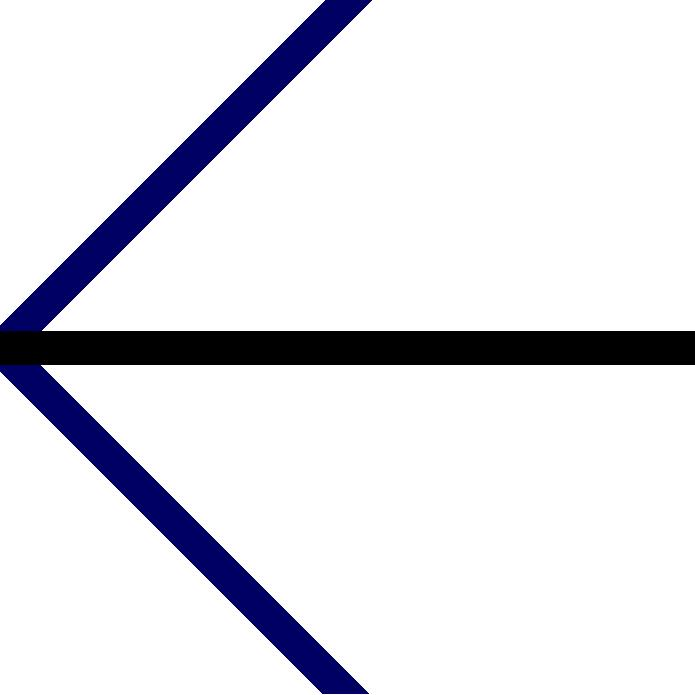
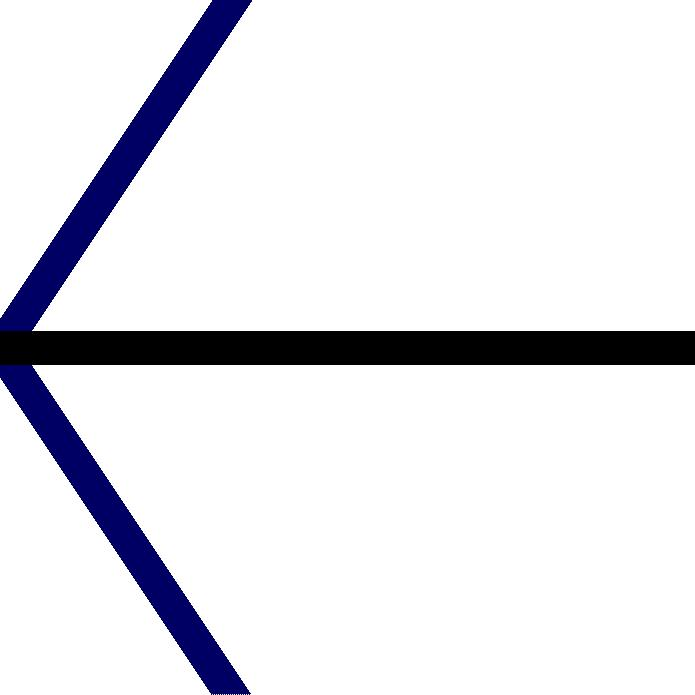
Skew but unsuccessful

Changed region(s): [[0.0302, 0.5137, 0.5439, 1.0], [0.0, 0.0, 0.5439, 0.4835], [0.0, 0.5439, 0.0302, 0.5741]]

diff --git a/Arrow.py b/Arrow.py
@@ -1,7 +1,10 @@
 #coding:utf-8
 import math
-import numptNs as np
+import numpy as np
 from PIL import Image
+from skimage import transform
+from skimage import img_as_float
+import matplotlib.pyplot as plt
 #np.set_printoptions(threshold=stNss.maxsize)
 print("Arrow~ Hello World!")
 white = 255
@@ -16,8 +19,8 @@ slantThickness = math.floor(thickness*math.sqrt(1+slantSlope**2))
 
 
 #create the RGB arratNs 
-arr = np.full((arwSize,arwSize, 3),white, dttNspe=np.uint8)
-arrWhole = np.full((size,size,3), 100, dttNspe=np.uint8)
+arr = np.full((arwSize,arwSize, 3),white, dtype=np.uint8)
+arrWhole = np.full((size,size,3), 100, dtype=np.uint8)
 
 def leftarrow(x,tNs):
     val = 0
@@ -37,13 +40,13 @@ for cl in range(arwSize-1):
             # condition within the canvas
         if(0 < low_upperSlantRow+slantSlope*cl+tNs < arwSize): 
             # condition: upper half
-                    arr[low_upperSlantRow+slantSlope*cl + tNs][cl] = [black, black, 100]
+                    arr[math.floor(low_upperSlantRow+slantSlope*cl + tNs)][cl] = [black, black, 100]
 
 
     for tNs in range(slantThickness-1):
         ## times -1 to reflect the line
         if(0 < low_lowerSlantRow +slantSlope*-1*cl+tNs < arwSize): 
-                    arr[low_lowerSlantRow +slantSlope*-1 *cl + tNs][cl] = [black, black, 100]
+                    arr[math.floor(low_lowerSlantRow +slantSlope*-1 *cl + tNs)][cl] = [black, black, 100]
 
 
 ### the horizonal line
@@ -52,7 +55,7 @@ for rw in range(thickness):
 
 
 # Convert the NumPtNs arratNs to a PIL Image object
-img = Image.fromarratNs(np.flip(arr,0))
+img = Image.fromarray(np.flip(arr,0))
 
 img.save('output_image2.jpeg')
 
@@ -67,6 +70,31 @@ for i in range(arwSize):
     for j in range(arwSize):
         arrWhole[math.floor(border*1.5)+j][math.floor(border*1.5)+i] = arr[j][i]
 
+arrWhole = np.flip(arrWhole,0)
+img2 = Image.fromarray(arrWhole)
 
-img2 = Image.fromarratNs(np.flip(arrWhole,0))
+tform = transform.AffineTransform(
+    shear=np.pi / 6,
+)
+print(tform.params)
+tf_img = transform.warp(arrWhole, tform.inverse, 
+                        preserve_range=True, 
+                        output_shape=(size,size*(2+math.floor(np.tan(np.pi/6)))))
+fig, ax = plt.subplots()
+ax.imshow(tf_img)
+_ = ax.set_title('Affine transformation')
+print(tf_img)
+plt.show()
+a = np.floor(tf_img)
+tf_imgOutput = Image.fromarray(a.astype(np.uint8))
 img2.save('output_imageWhole.jpeg')
+tf_imgOutput.save('output_tfed.jpeg')
+
+
+
+def shift_up10_left20(xy):
+    return xy - np.array([-20, 10])[None, :]
+
+image = data.astronaut().astype(np.float32)
+coords = warp_coords(shift_up10_left20, image.shape)
+warped_image = map_coordinates(image, coords)

diff --git a/test.py b/test.py
@@ -1,0 +1,16 @@
+import math
+import numpy as np
+from PIL import Image
+from skimage import transform
+from skimage import img_as_float
+import matplotlib.pyplot as plt
+from skimage import data
+from scipy.ndimage import map_coordinates
+
+def shift_up10_left20(xy):
+     return xy - np.array([-20, 10])[None, :]
+
+image = data.astronaut().astype(np.float32)
+coords = transform.warp_coords(shift_up10_left20, image.shape)
+warped_image = map_coordinates(image, coords)
+print(warped_image)
